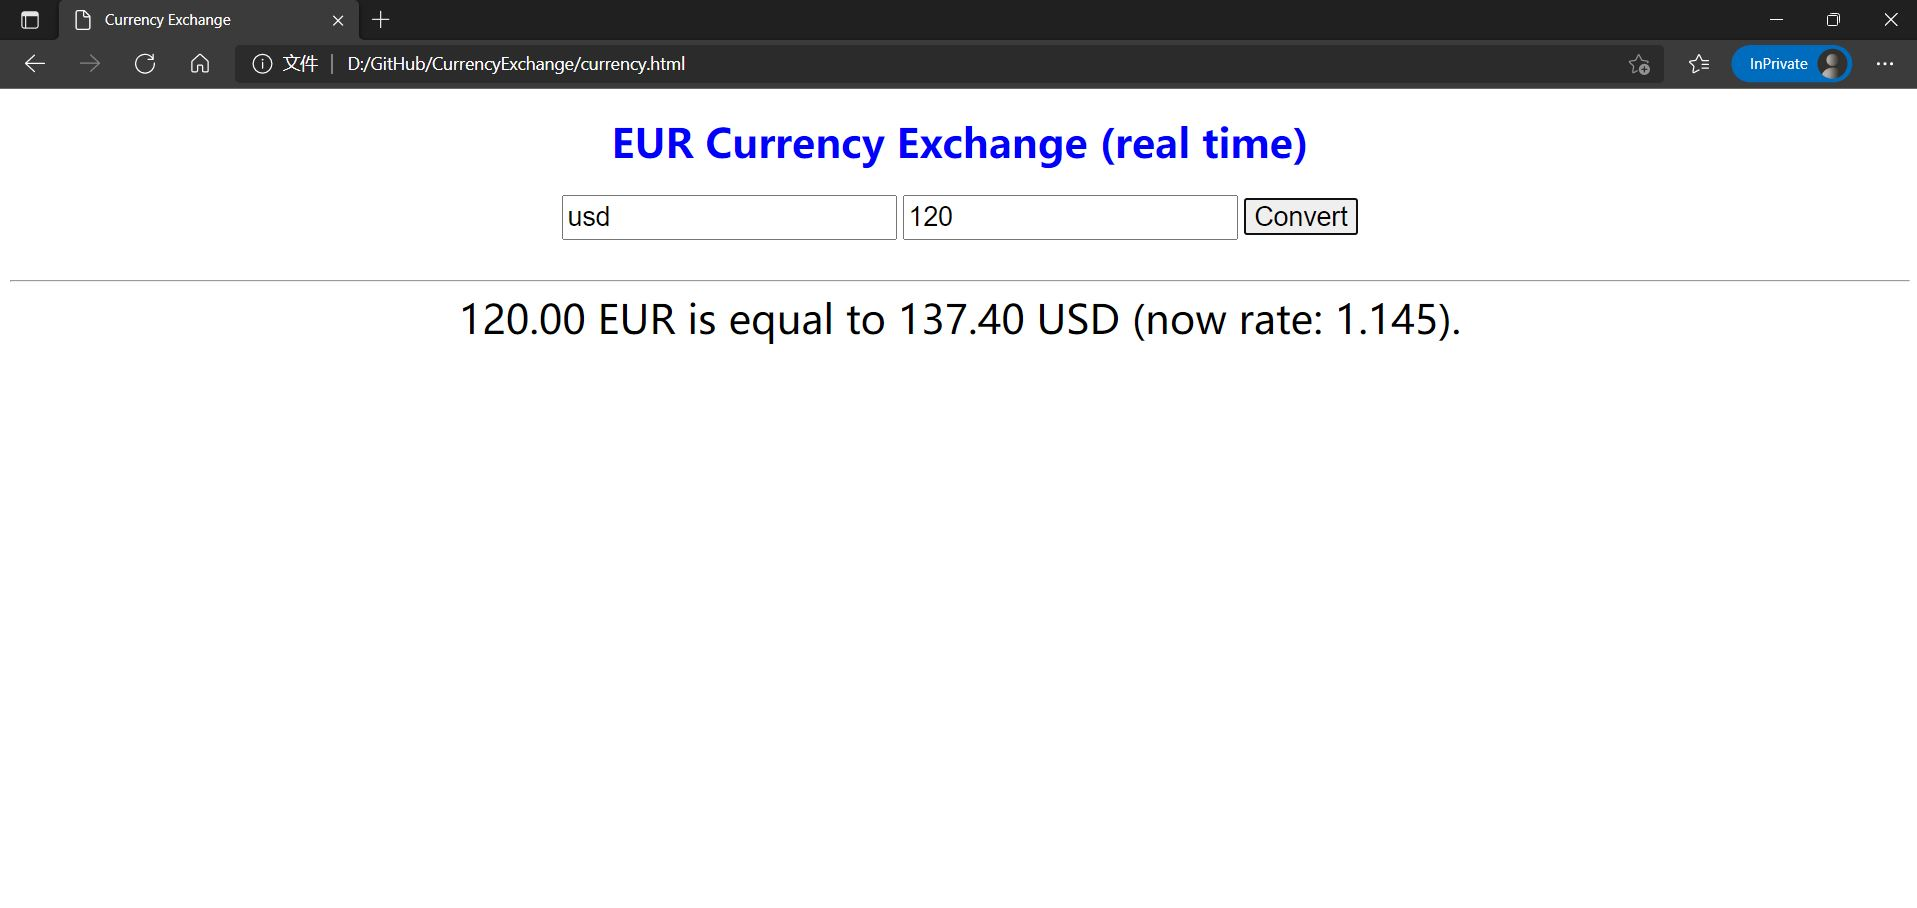
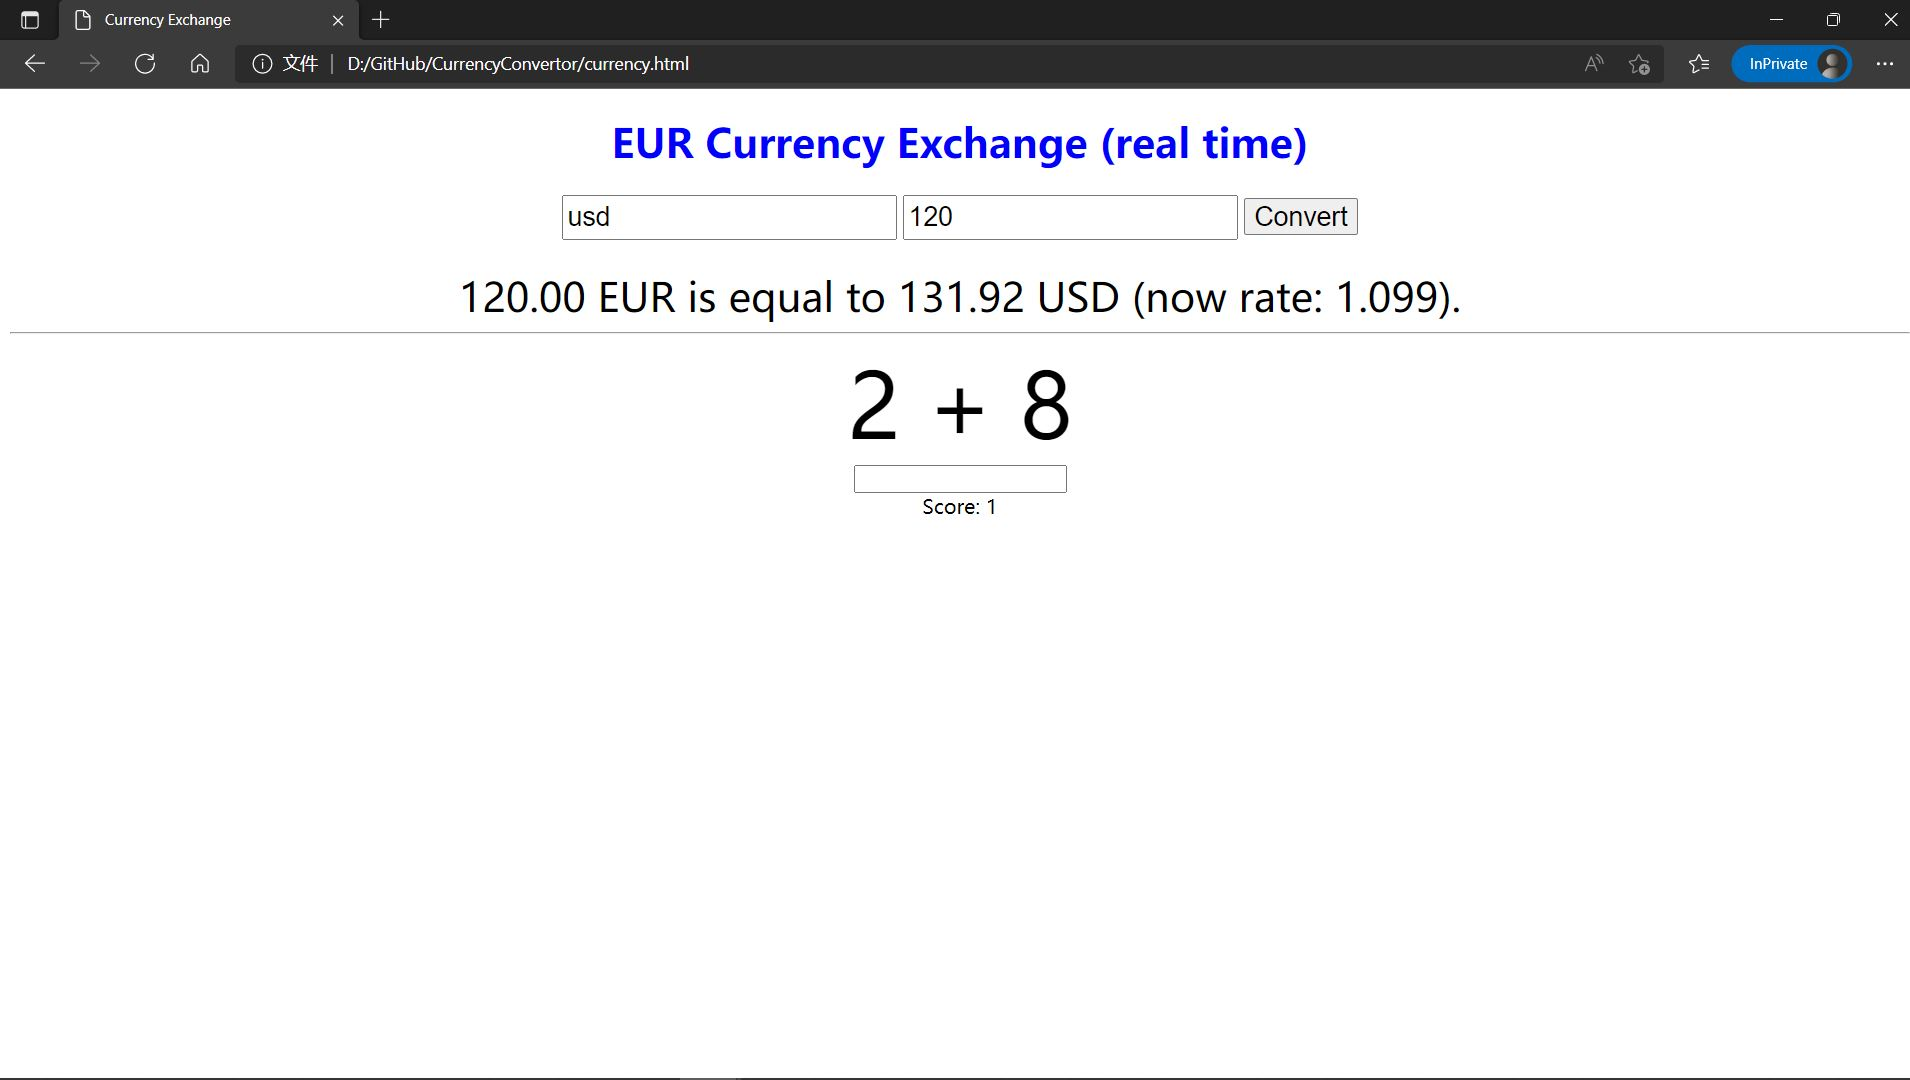
small change

Changed region(s): [[0.0, 0.0, 1.0, 0.4317], [0.0, 0.9868, 1.0, 1.0], [0.4942, 0.4626, 0.5251, 0.4934]]

diff --git a/currency.html b/currency.html
@@ -1,23 +1,15 @@
 <!DOCTYPE html> 
 <html lang="en">
     <head>
+        <meta charset="uft-8">
         <title>Currency Exchange</title>
         <script src="currency.js"></script>
-        <style>
-            h1 {
-                color: blue;
-                text-align: center;
-            }
-            #formbox {
-                text-align: center;
-                height: 60px;
-            }
-            .large {
-                font-size: 16pt;
-                height: 30px;
-            }
-        </style>
+        <script src="https://unpkg.com/react@17/umd/react.production.min.js" crossorigin></script>
+        <script src="https://unpkg.com/react-dom@17/umd/react-dom.production.min.js" crossorigin></script>
+        <script src="https://unpkg.com/babel-standalone@6/babel.min.js"></script>
+        <link href="style.css" rel="stylesheet">
     </head>
+    
     <body>
         <h1>EUR Currency Exchange (real time)</h1>
         <div id="formbox">
@@ -27,8 +19,82 @@
                 <input id="convert" type="submit" class="large" value="Convert">
             </form>
         </div>
-        <hr>
         <!-- below behave according to js file -->
         <div id="result"></div>
+        <!-- below behave with React component -->
+        <div id="app"></div>
+
+        <script type="text/babel">
+
+            function App() {
+
+                const [state, setState] = React.useState({
+                    num1: 1,
+                    num2: 1,
+                    response: "",
+                    score: 0,
+                    incorrect: false
+                });
+
+                function renderWinScreen() {
+                    return (
+                        <div id="winner">You won!</div>
+                    );
+                }
+
+                function inputKeyPress(event) {
+                    if (event.key === "Enter") {
+                        const answer = parseInt(state.response);
+                        if (answer === state.num1 + state.num2) {
+                            // User got question right
+                            setState({
+                                ...state,
+                                score: state.score + 1,
+                                response: "",
+                                num1: Math.ceil(Math.random() * 10),
+                                num2: Math.ceil(Math.random() * 10),
+                                incorrect: false
+                            });
+                        } else {
+                            // User got question wrong
+                            setState({
+                                ...state,
+                                score: state.score - 1,
+                                response: "",
+                                incorrect: true
+                            })
+                        }
+                    }
+                }
+
+                function updateResponse(event) {
+                    setState({
+                        ...state,
+                        response: event.target.value
+                    });
+                }
+
+                function renderProblem() {
+                    return (
+                        <div>
+                            <hr></hr>
+                            <div className={state.incorrect ? "incorrect" : ""} id="problem">
+                                {state.num1} + {state.num2}
+                            </div>
+                            <input onKeyPress={inputKeyPress} onChange={updateResponse} autoFocus={false} value={state.response} />
+                            <div>Score: {state.score}</div>
+                        </div>
+                    )
+                }
+
+                if (state.score === 10) {
+                    return renderWinScreen();
+                } else {
+                    return renderProblem();
+                }
+            }
+
+            ReactDOM.render(<App />, document.querySelector("#app"));
+        </script>    
     </body>
 </html>

diff --git a/style.css b/style.css
@@ -1,0 +1,32 @@
+/* tag selector */
+h1 {
+    color: blue;
+    text-align: center;
+}
+/* id selector */
+#formbox {
+    text-align: center;
+    height: 60px;
+}
+/* class selector */
+.large {
+    font-size: 16pt;
+    height: 30px;
+}
+#app {
+    text-align: center;
+    font-family: sans-serif;
+}
+
+#problem {
+    font-size: 72px;
+}
+
+#winner {
+    font-size: 72px;
+    color: green;
+}
+
+.incorrect {
+    color: red;
+}
